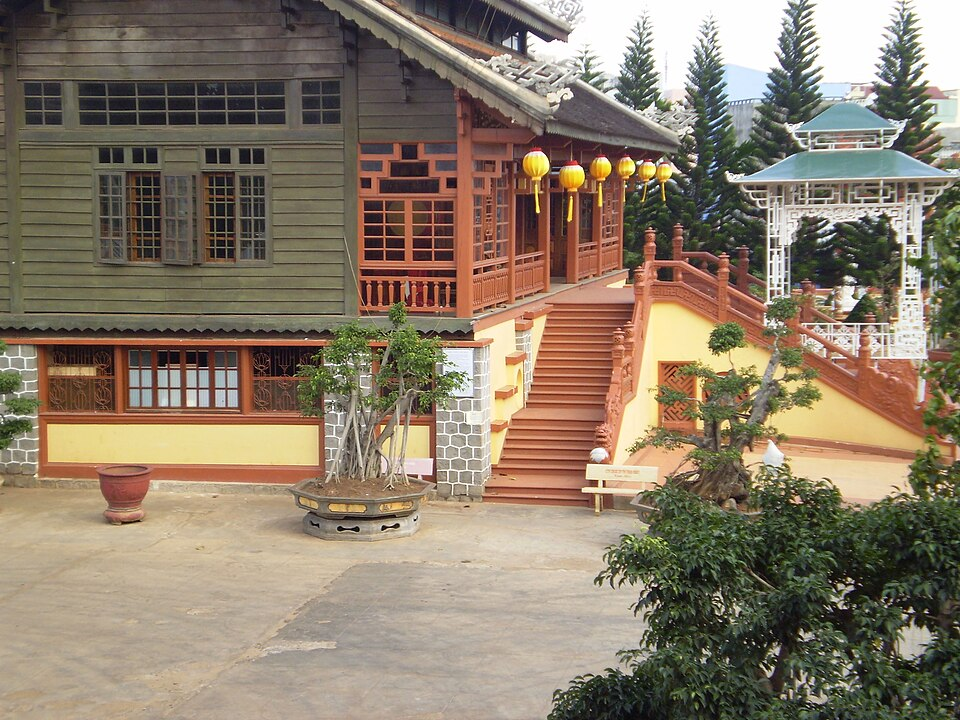
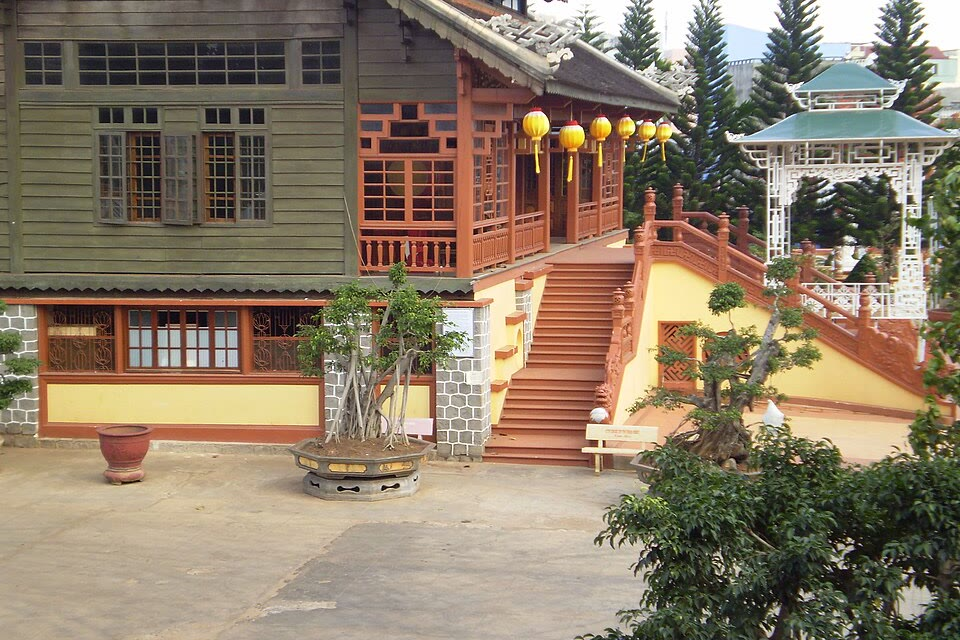
content: write the Khai Doan pagoda page
Donation and hours stay Check on arrival. The second frame is the stair and the white pavilion.

diff --git a/research/buon-ma-thuot/attractions/khai-doan-pagoda.md b/research/buon-ma-thuot/attractions/khai-doan-pagoda.md
@@ -1,0 +1,77 @@
+# Attraction research — Khai Doan Pagoda
+
+Place: `buon-ma-thuot`
+Slug: `khai-doan-pagoda`
+Status: stored
+Checked: 23 Oct 2026
+
+Facts below are taken from `research/buon-ma-thuot/`. No new fee was opened.
+
+## What it is
+
+- English name: Khai Doan Pagoda
+- Vietnamese name: Chùa Sắc Tứ Khải Đoan
+- Kicker: Large city pagoda in Phan Boi Chau
+- Kind: sight
+
+## What the visitor does
+
+- The scene, in order: Walk the courtyard, the wooden hall, and the white pavilion.
+- How long on site: 30–45 minutes (S4, S17)
+- How long including the ride from the base: Taxi or motorbike. Minutes Check on arrival — UNSOURCED
+- Mistake that wastes the visit: Flying a drone without permission
+- Notice: none
+
+## Fee
+
+- Basic price: Free donation — Check on arrival — UNSOURCED
+- Child rule: UNSOURCED
+- Includes: the courtyard visit. No ticket was printed.
+- Extra: UNSOURCED
+- Source: S4, S17 name the pagoda and do not print a fee
+
+## Hours
+
+- Open: Check on arrival — UNSOURCED
+- Closed: Check on arrival — UNSOURCED
+- Source: UNSOURCED
+
+## Getting there
+
+### From the city center
+
+- Mode: Taxi or motorbike
+- Time: Check on arrival — UNSOURCED
+- Source: S4, S17. Area is Phan Boi Chau.
+
+- Coordinates: none
+
+## Season
+
+- Leave months to the place. Dossier says late afternoon for the roof.
+
+## Photos
+
+- Hero: courtyard hall with lanterns. Cropped the existing DXLINH file to 3:2. Credit unchanged.
+- Second: stair and pavilion, File:Khaidoan2.jpg, DXLINH, public domain.
+- Reject: the frame with metal scaffolding across the hall.
+
+## Links
+
+- https://buonmathuot.daklak.gov.vn/v-ban-sac-van-hoa-va-du-lich-buon-ma-thuot-1095.html (S4)
+- https://daklaktourism.com/location/diem-den/ (S17)
+
+## Open questions
+
+- Donation amount
+- Opening hours
+
+## Sources
+
+### S4
+- Publisher: Buon Ma Thuot ward government portal
+- Supports: Khải Đoan named on the city tourism list
+
+### S17
+- Publisher: Dak Lak Tourism
+- Supports: Khải Đoan on the sample day route
